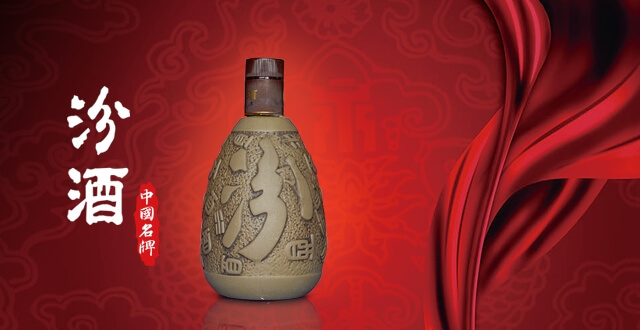
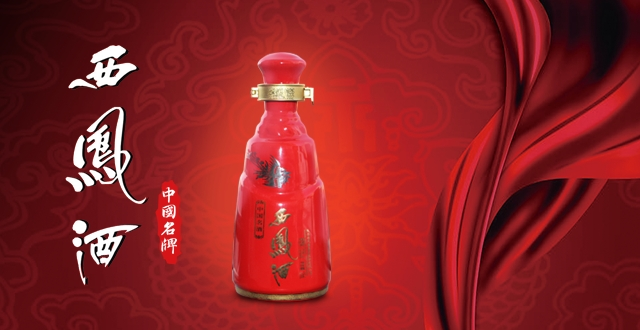
唯简-山峰酒业
轮播图片修改

Changed region(s): [[0.3125, 0.1515, 0.5312, 1.0], [0.0938, 0.1212, 0.2812, 0.8788]]

diff --git a/weijian/mountain/company.html b/weijian/mountain/company.html
@@ -34,7 +34,7 @@
         </div>
         <h5 class="tiao"></h5>
         <div class="article">
-            <img src="img/com.jpg" alt="" class="img-responsive art_img">
+            <img src="img/fx_banner01.jpg" alt="" class="img-responsive art_img">
             <p class="duanluo">
                 西安山峰酒业，主要经营西凤酒系列、泸州老窖系列、太白酒系列 、茅台酒系列 、五粮液系列 、剑南春系列 、汾酒系列 、长安老窖系列 。一直以“客户至上、诚信经营的服务宗旨。遵循“务实求进，互利共赢 ”的商业道德，竭诚为您服务。
             </p>
